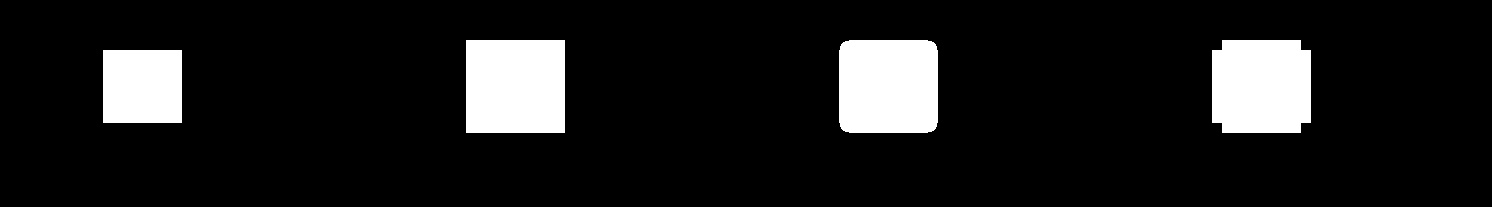
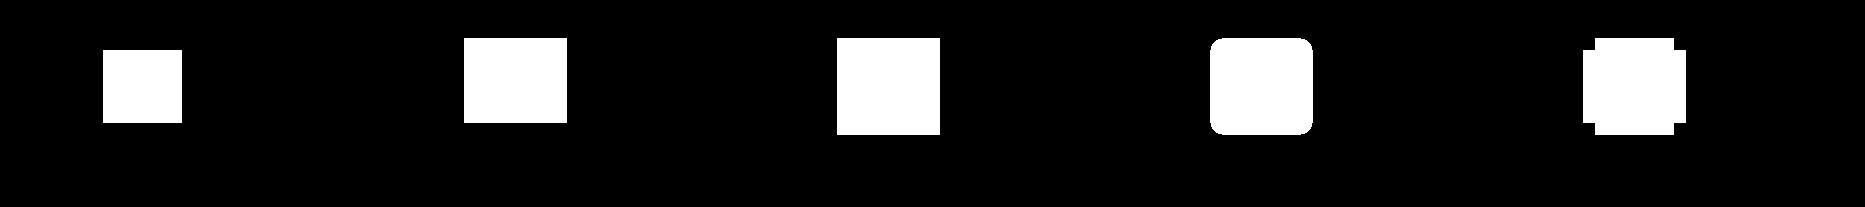
Fixing dilatation using line structure

diff --git a/06-morphological-Algorithms/dilatation.py b/06-morphological-Algorithms/dilatation.py
@@ -37,7 +37,7 @@ def mount_structuring_element(structure_index):
 
     if structure_index == 1: # line structure
         structure = np.zeros(neighbor_number)
-        for i in range(center - 1, neighbor_number):
+        for i in range(center, neighbor_number):
             structure[i] = 1
 
     elif structure_index == 2: # box structure
@@ -61,10 +61,17 @@ def mount_structuring_element(structure_index):
 
 # Checking if apply dilatation
 def apply_dilatation(frame, structure):
-    for i in range(len(frame)):
-        for j in range(len(frame)):
-            if structure[i][j] == 1 and frame[i][j] == 255:
-                return 255
+    
+    if structure.ndim == 1: # 1 dimensional array (line structure)
+        for i in range(len(frame)):
+            for j in range(len(frame)):
+                if structure[i] == 1 and frame[i][j] == 255:
+                    return 255
+    else:   # 2 dimensional array (all other structures)
+        for i in range(len(frame)):
+            for j in range(len(frame)):
+                if structure[i][j] == 1 and frame[i][j] == 255:
+                    return 255
     return 0
 
 # scroll through the image
@@ -76,8 +83,8 @@ def convolution():
     print("Processing...")
     
     for k in range(len(options)):
-        structuring_element = mount_structuring_element(options[k])      
-
+        structuring_element = mount_structuring_element(options[k])
+        
         for i in range(start, img_width - start):
             for j in range(start, img_height - start):
                 frame = img[i-start:i+start+1, j-start:j+start+1]
